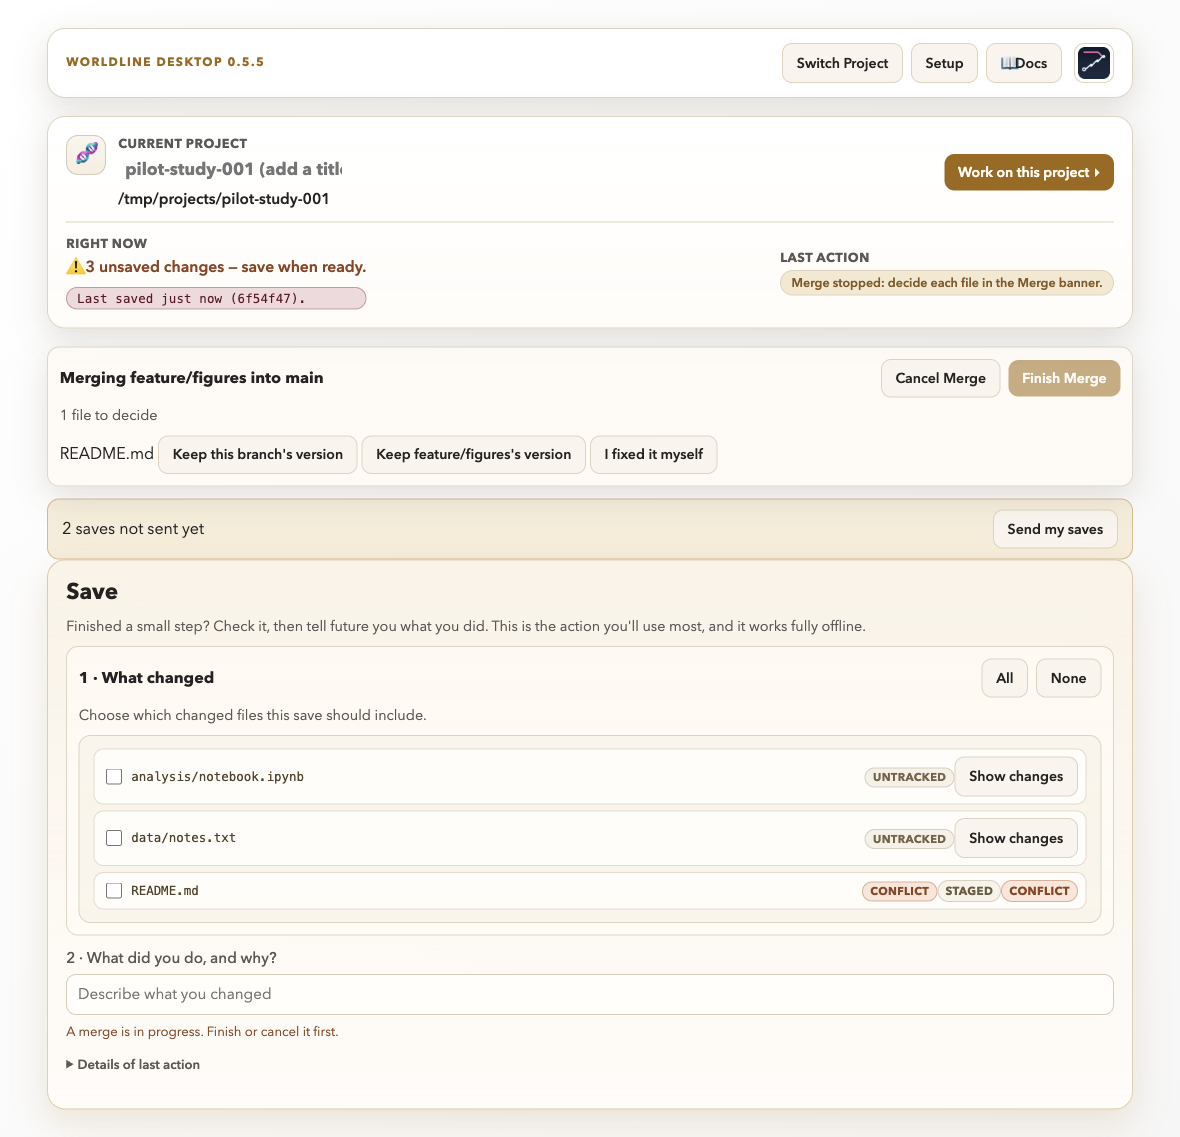
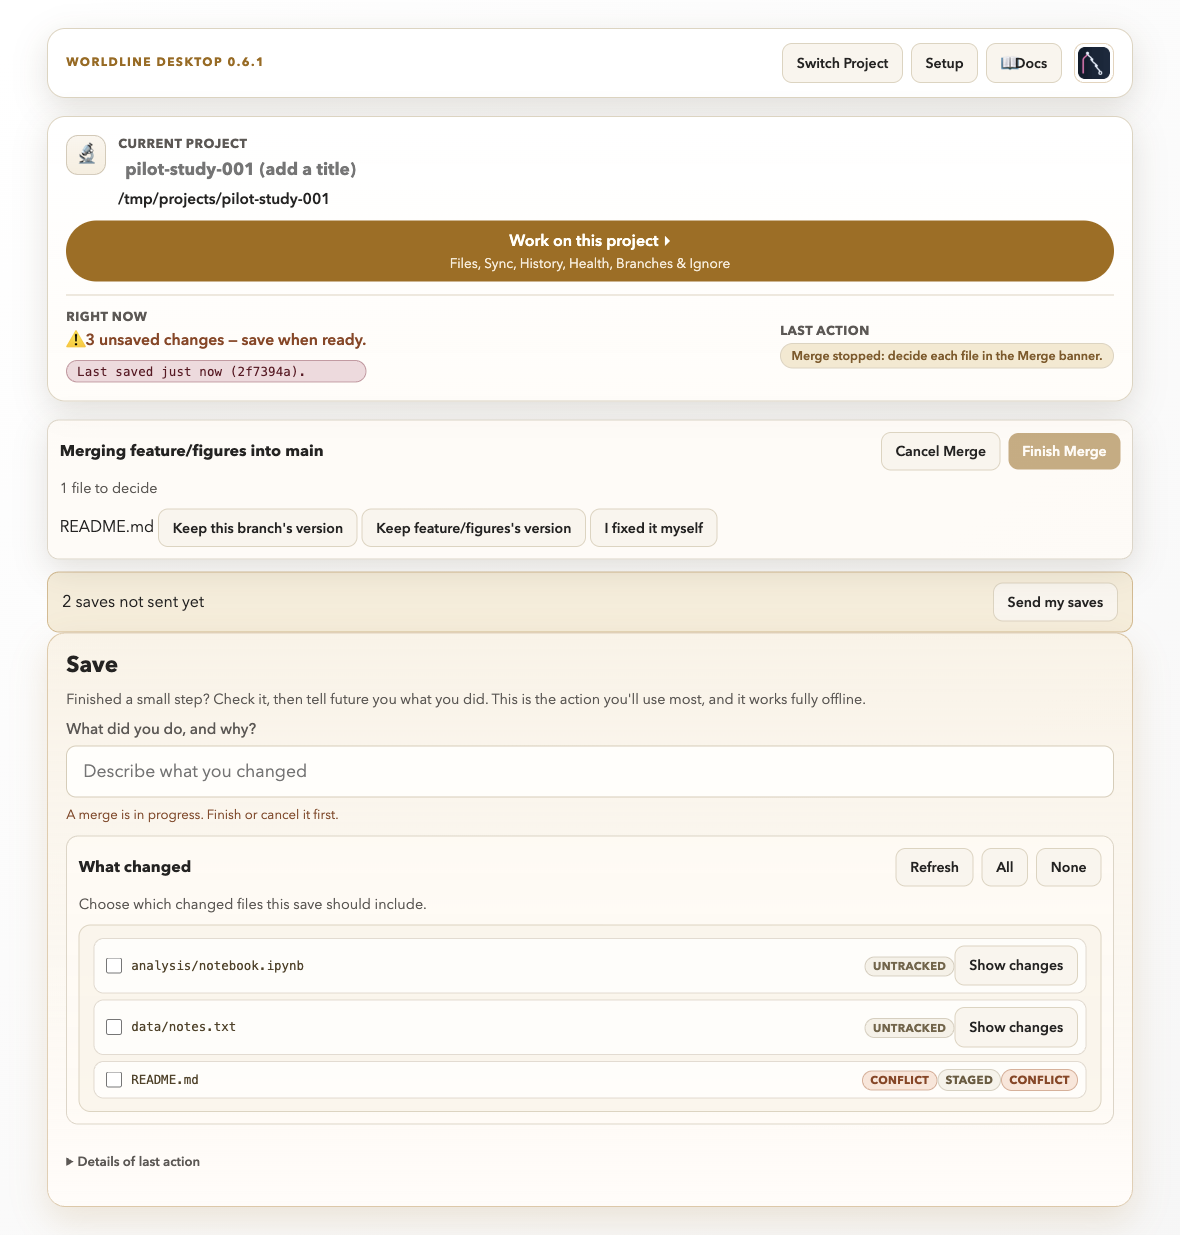
docs: new screenshots (0.6.1) and tutorial 01 text for the new Save panel

Changed region(s): [[0.0305, 0.0308, 0.9763, 0.9543], [0.8237, 0.5849, 0.9458, 0.6157], [0.9458, 0.4925, 0.9763, 0.5233]]

diff --git a/docs/tutorials/01-first-checkpoint.md b/docs/tutorials/01-first-checkpoint.md
@@ -11,7 +11,7 @@ changes in the newly created project and make a clean first save.
 
 - Open an existing project
 - Read working-tree status
-- Select files for Save (step 1)
+- Choose which changed files a save includes
 - Write clear Save messages
 - Verify a successful save
 
@@ -31,20 +31,20 @@ changes in the newly created project and make a clean first save.
 
 1. Open the project in Worldline Desktop.
 2. Look at the project card: it names the project and says what the project check found. A project made in Tutorial 00 reads "DataLad project". A plain Git folder shows a **Git** badge.
-3. The **Save** area is a few small steps. Step **1 · What changed** lists the changed and untracked files.
-   Click **Show changes** next to a file to see exactly what changed in it before you save.
+3. The **Save** area has the message box on top. Below it, **What changed** lists the changed and untracked files.
+   Click **Show changes** next to a file to see exactly what changed in it before you save. If a file you just edited is not listed yet, press **Refresh**.
 
    ![The Files view (open it with Work on this project → Files), with changed items badged](../_static/screenshots/05-files.png)
 
 4. Every changed file starts ticked. Keep the ticks on the research files
    (`README.md`, `data/raw/participants.tsv`).
 5. Untick the scratch note `notes/todo.txt`.
-6. In the last step, **What did you do, and why?**, write a message in this format. A very vague message ("update", "fix", "wip") gets a nudge, never a block. **Use suggestion** fills in a starting text:
+6. In the box at the top, **What did you do, and why?**, write a message in this format. A very vague message ("update", "fix", "wip") gets a nudge, never a block. **Use suggestion** fills in a starting text:
    - `pilot: update participant table and project summary`
 
    ![The Save area: what changed, what did you do and why, Save this step](../_static/screenshots/04-save-checkpoint.png)
 
-7. Click **Save this step**. In a BIDS or PRISM project there is an extra step in the middle, **Is it valid?**, with the check result; a fresh "not valid" result holds the save back until you fix it.
+7. Click **Save this step**. In a BIDS or PRISM project the **Is it valid?** box next to **What changed** shows the check result; a fresh "not valid" result holds the save back until you fix it. When nothing is left to save, the button turns gray and says why.
 8. Re-check the list of changed files. The saved files are gone from it, and
    only `notes/todo.txt` is left. Open **Work on this project → History** to see your new
    save at the top.

diff --git a/docs/install.md b/docs/install.md
@@ -34,7 +34,7 @@ checks it against a checksum written into the script itself, and sets everything
 > distribution (it never runs `sudo` itself). See [datalad.org](https://www.datalad.org/) for more. The app's
 > diagnostics screen tells you what's missing.
 
-**PRISM projects** (a `project.json` in the project folder) get a PRISM badge. The project card shows **✓ valid** or the number of problems, and in the Save area the step **Is it valid?** shows the result with a **Check again** button. Save only goes through when
+**PRISM projects** (a `project.json` in the project folder) get a PRISM badge. The project card shows **✓ valid** or the number of problems, and in the Save area the **Is it valid?** box shows the result with a **Check again** button. Save only goes through when
 the PRISM validator (which includes the BIDS check) reports the whole project valid; the save that adds
 `project.json` is the exception. **BIDS projects** (a `dataset_description.json` and no `project.json`) are checked
 the same way before every save, with the BIDS validator. Both come with the one validator install, so there is no extra install. Files that are annexed but not downloaded do not count as errors. The
